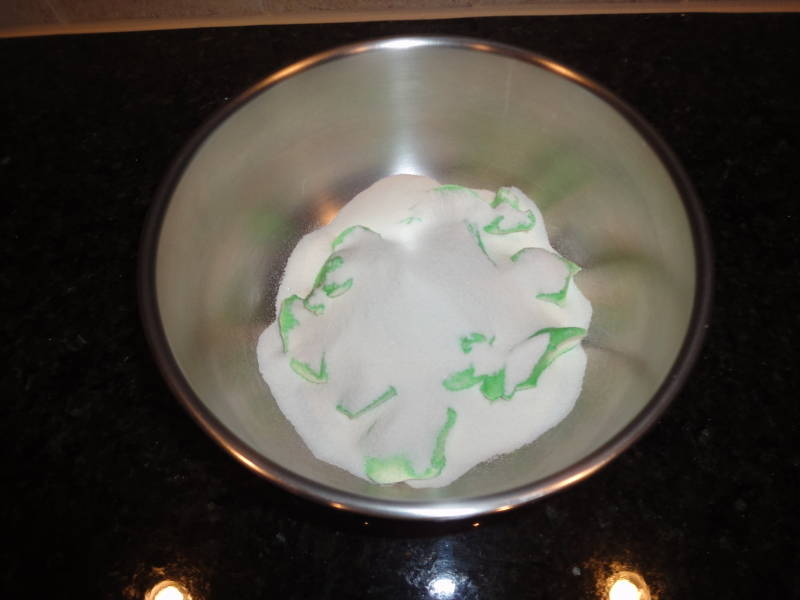
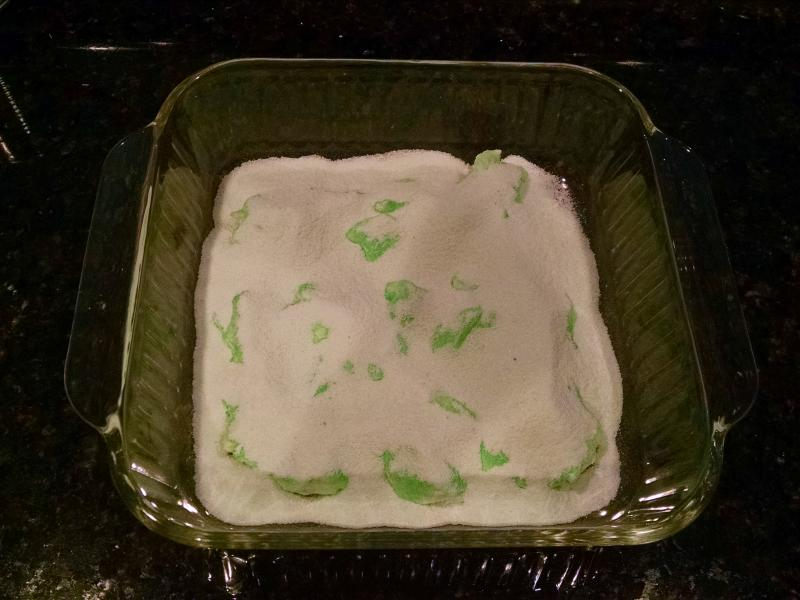
Update the lime congealed salad recipe
- Mix in pineapple and nuts immediately; don't wait until it has set
  slightly.
- Use the final serving dish as the mixing dish instead of a dedicated
  mixing bowl that must also be washed.
- Update images to show the steps being performed in the final serving
  dish instead of the mixing bowl.
- Add a suggestion to avoid straining the pineapple next time.

diff --git a/lime_congealed_salad/README.md b/lime_congealed_salad/README.md
@@ -12,7 +12,7 @@
 
 # Directions
 
-1. Break cream cheese into small chunks and place in a mixing bowl. Let it sit out until it comes to room temperature (2 hours or more).
+1. Break cream cheese into small chunks and place in a 2 qt, 8" square baking dish. Let it sit out until it comes to room temperature (2 hours or more). Starting out in a mixing bowl would make the later whisking steps easier, but this way saves a dirty dish.
 
     [![cream cheese](thumbs/cream-cheese.jpg)](images/cream-cheese.jpg)
 
@@ -21,31 +21,22 @@
     [![powder](thumbs/powder.jpg)](images/powder.jpg)
     [![whisk-1](thumbs/whisk-powder-cream-cheese-1.jpg)](images/whisk-powder-cream-cheese-1.jpg)
     [![whisk-2](thumbs/whisk-powder-cream-cheese-2.jpg)](images/whisk-powder-cream-cheese-2.jpg)
-    [![whisk-3](thumbs/whisk-powder-cream-cheese-3.jpg)](images/whisk-powder-cream-cheese-3.jpg)
 
-1. Drain pineapple, reserving juice. Press pineapple with a spatula to extract as much juice as possible.
+1. Strain pineapple, reserving juice. Press pineapple with a spatula to extract as much juice as possible.
 
     [![strain pineapple](thumbs/strain-pineapple.jpg)](images/strain-pineapple.jpg)
 
 1. Add enough water to the pineapple juice to produce 2 cups of liquid. Bring to near boiling.
-1. Pour juice/water mixture over jello / cream cheese mixture, and stir well to dissolve.
+1. Pour the juice/water mixture over the jello and cream cheese mixture, and stir well to dissolve.
 
     [![liquid](thumbs/liquid.jpg)](images/liquid.jpg)
 
-1. Pour 1 cup cold water into mixture and stir well.
-1. Transfer to the final serving dish. A 2 qt, 8" square baking dish should be fine. (Note: The next photos show the mixture in the original mixing bowl. They were taken before my current recommendation of transferring to the final dish at this stage.)
-1. Refrigerate until just starting to firm up, maybe about 1-2 hours. It should be jiggly in the middle, firm enough to prevent nuts from sinking but not much firmer.
-
-    [![mid-gel](thumbs/mid-gel.jpg)](images/mid-gel.jpg)
-
 1. Add pineapple and nuts and mix well.
 
-    [![add-nuts-pineapple](thumbs/add-nuts-pineapple.jpg)](images/add-nuts-pineapple.jpg)
     [![mix-nuts-pineapple](thumbs/mix-nuts-pineapple.jpg)](images/mix-nuts-pineapple.jpg)
 
-1. Refrigerate until set, maybe 2 hours.
+1. Refrigerate until set, maybe 4 hours.
 
-# Options
+# Try next time
 
-- Consider doing the initial mixing in the final dish to avoid getting a separate bowl dirty.
-- One recipe calls for just 2 cups of liquid. You boil 2 cups of pineapple juice and water, and pour this over the jello and cream cheese. Then, instead of letting it firm up a little first, you immediately mix in the pineapple and nuts, and then refrigerate until set.
+- Straining the pineapple is annoying, and then you have to clean the strainer afterwards. Instead, consider boiling just 1 cup of water and mixing that with the jello and cream cheese mixture. When adding the pineapple and nuts, add the entire undrained can of pineapple.
